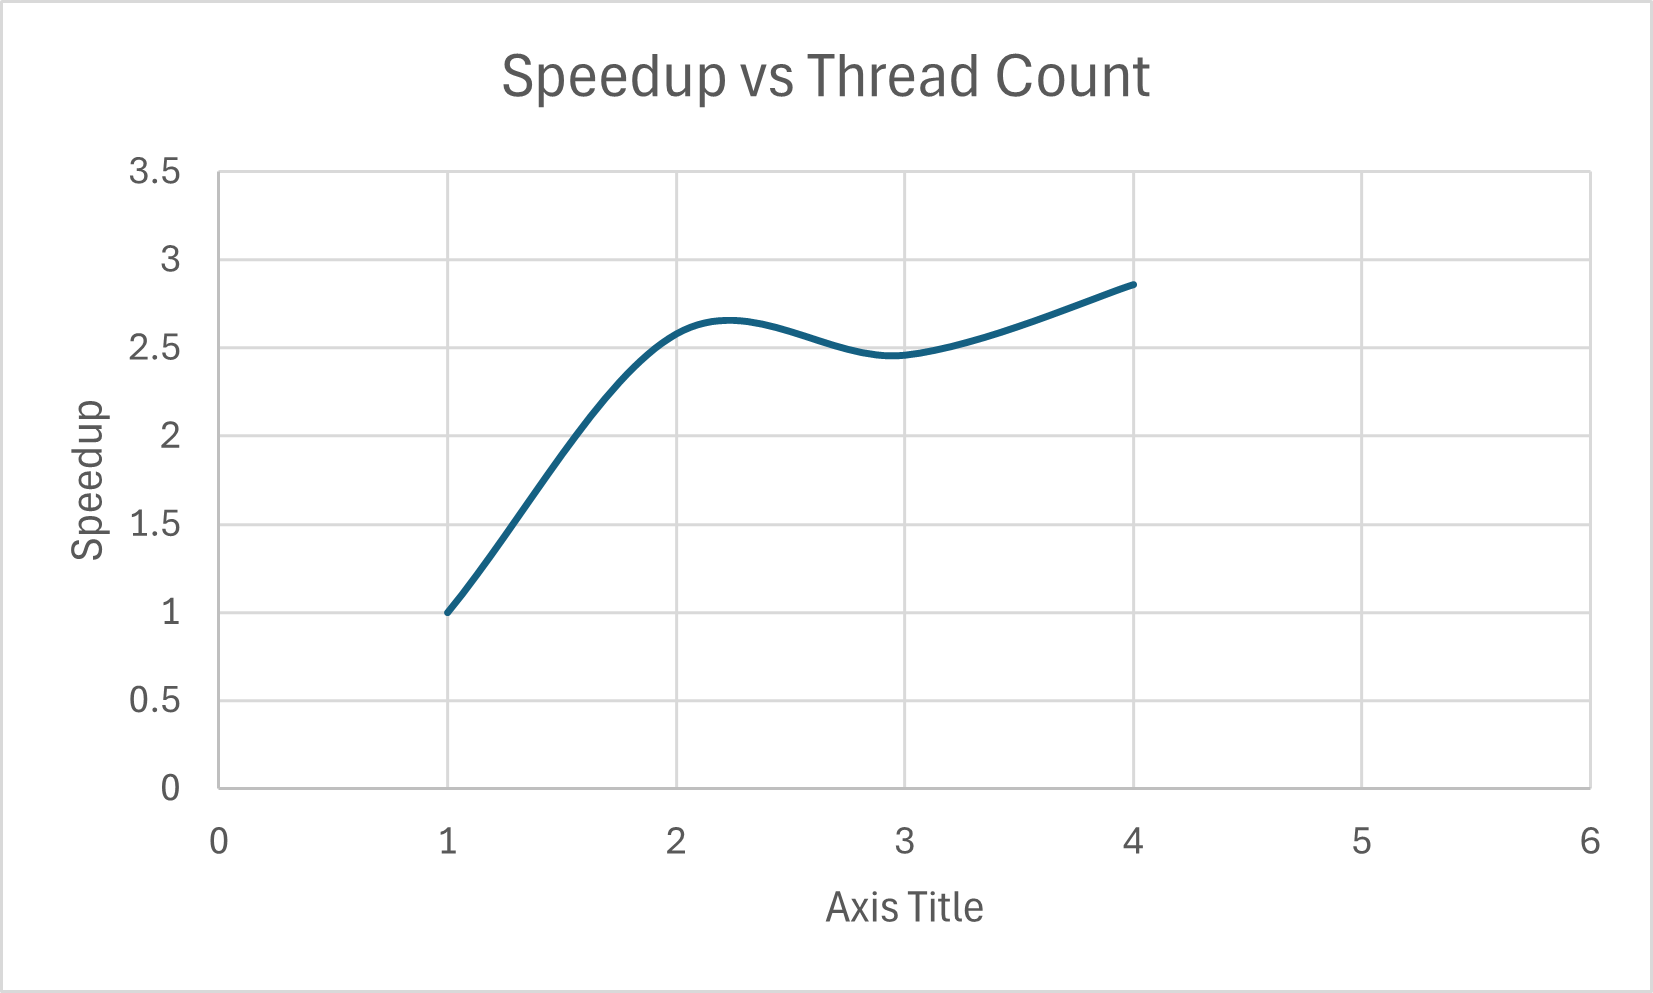
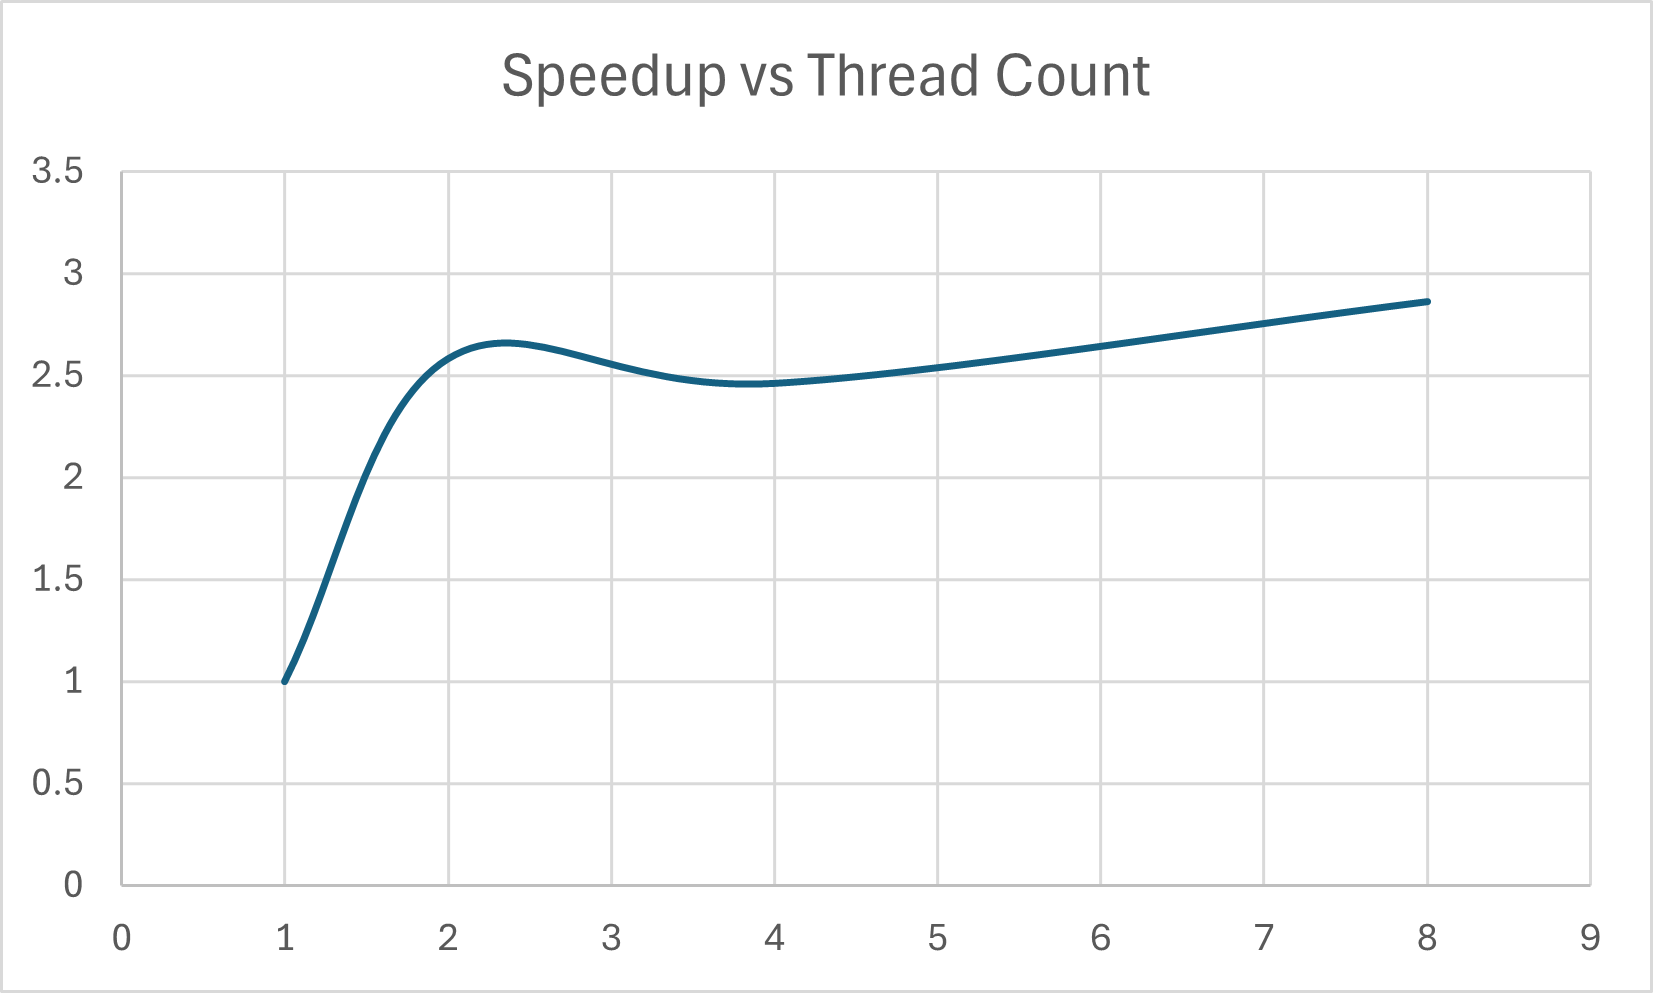
Update README and replace speedup chart

diff --git a/README.md b/README.md
@@ -81,6 +81,10 @@ Double-click: `test.bat`
    - Sampler tab → view top-consuming methods
 4. Save screenshots for report
 
+## 🖼 GUI Preview
+
+![GUI Screenshot](images/gui-screenshot.png)
+
 ## 🐳 Optional: Run via Docker
 This project is fully containerized using Docker for portability and ease of execution.
 
@@ -92,7 +96,7 @@ This project is fully containerized using Docker for portability and ease of exe
 ### 🏃 How to Use
 
 **Build the Docker image:**
-```bash
+'''bash
 docker build -t image-filter .
 
 Run the benchmark:
